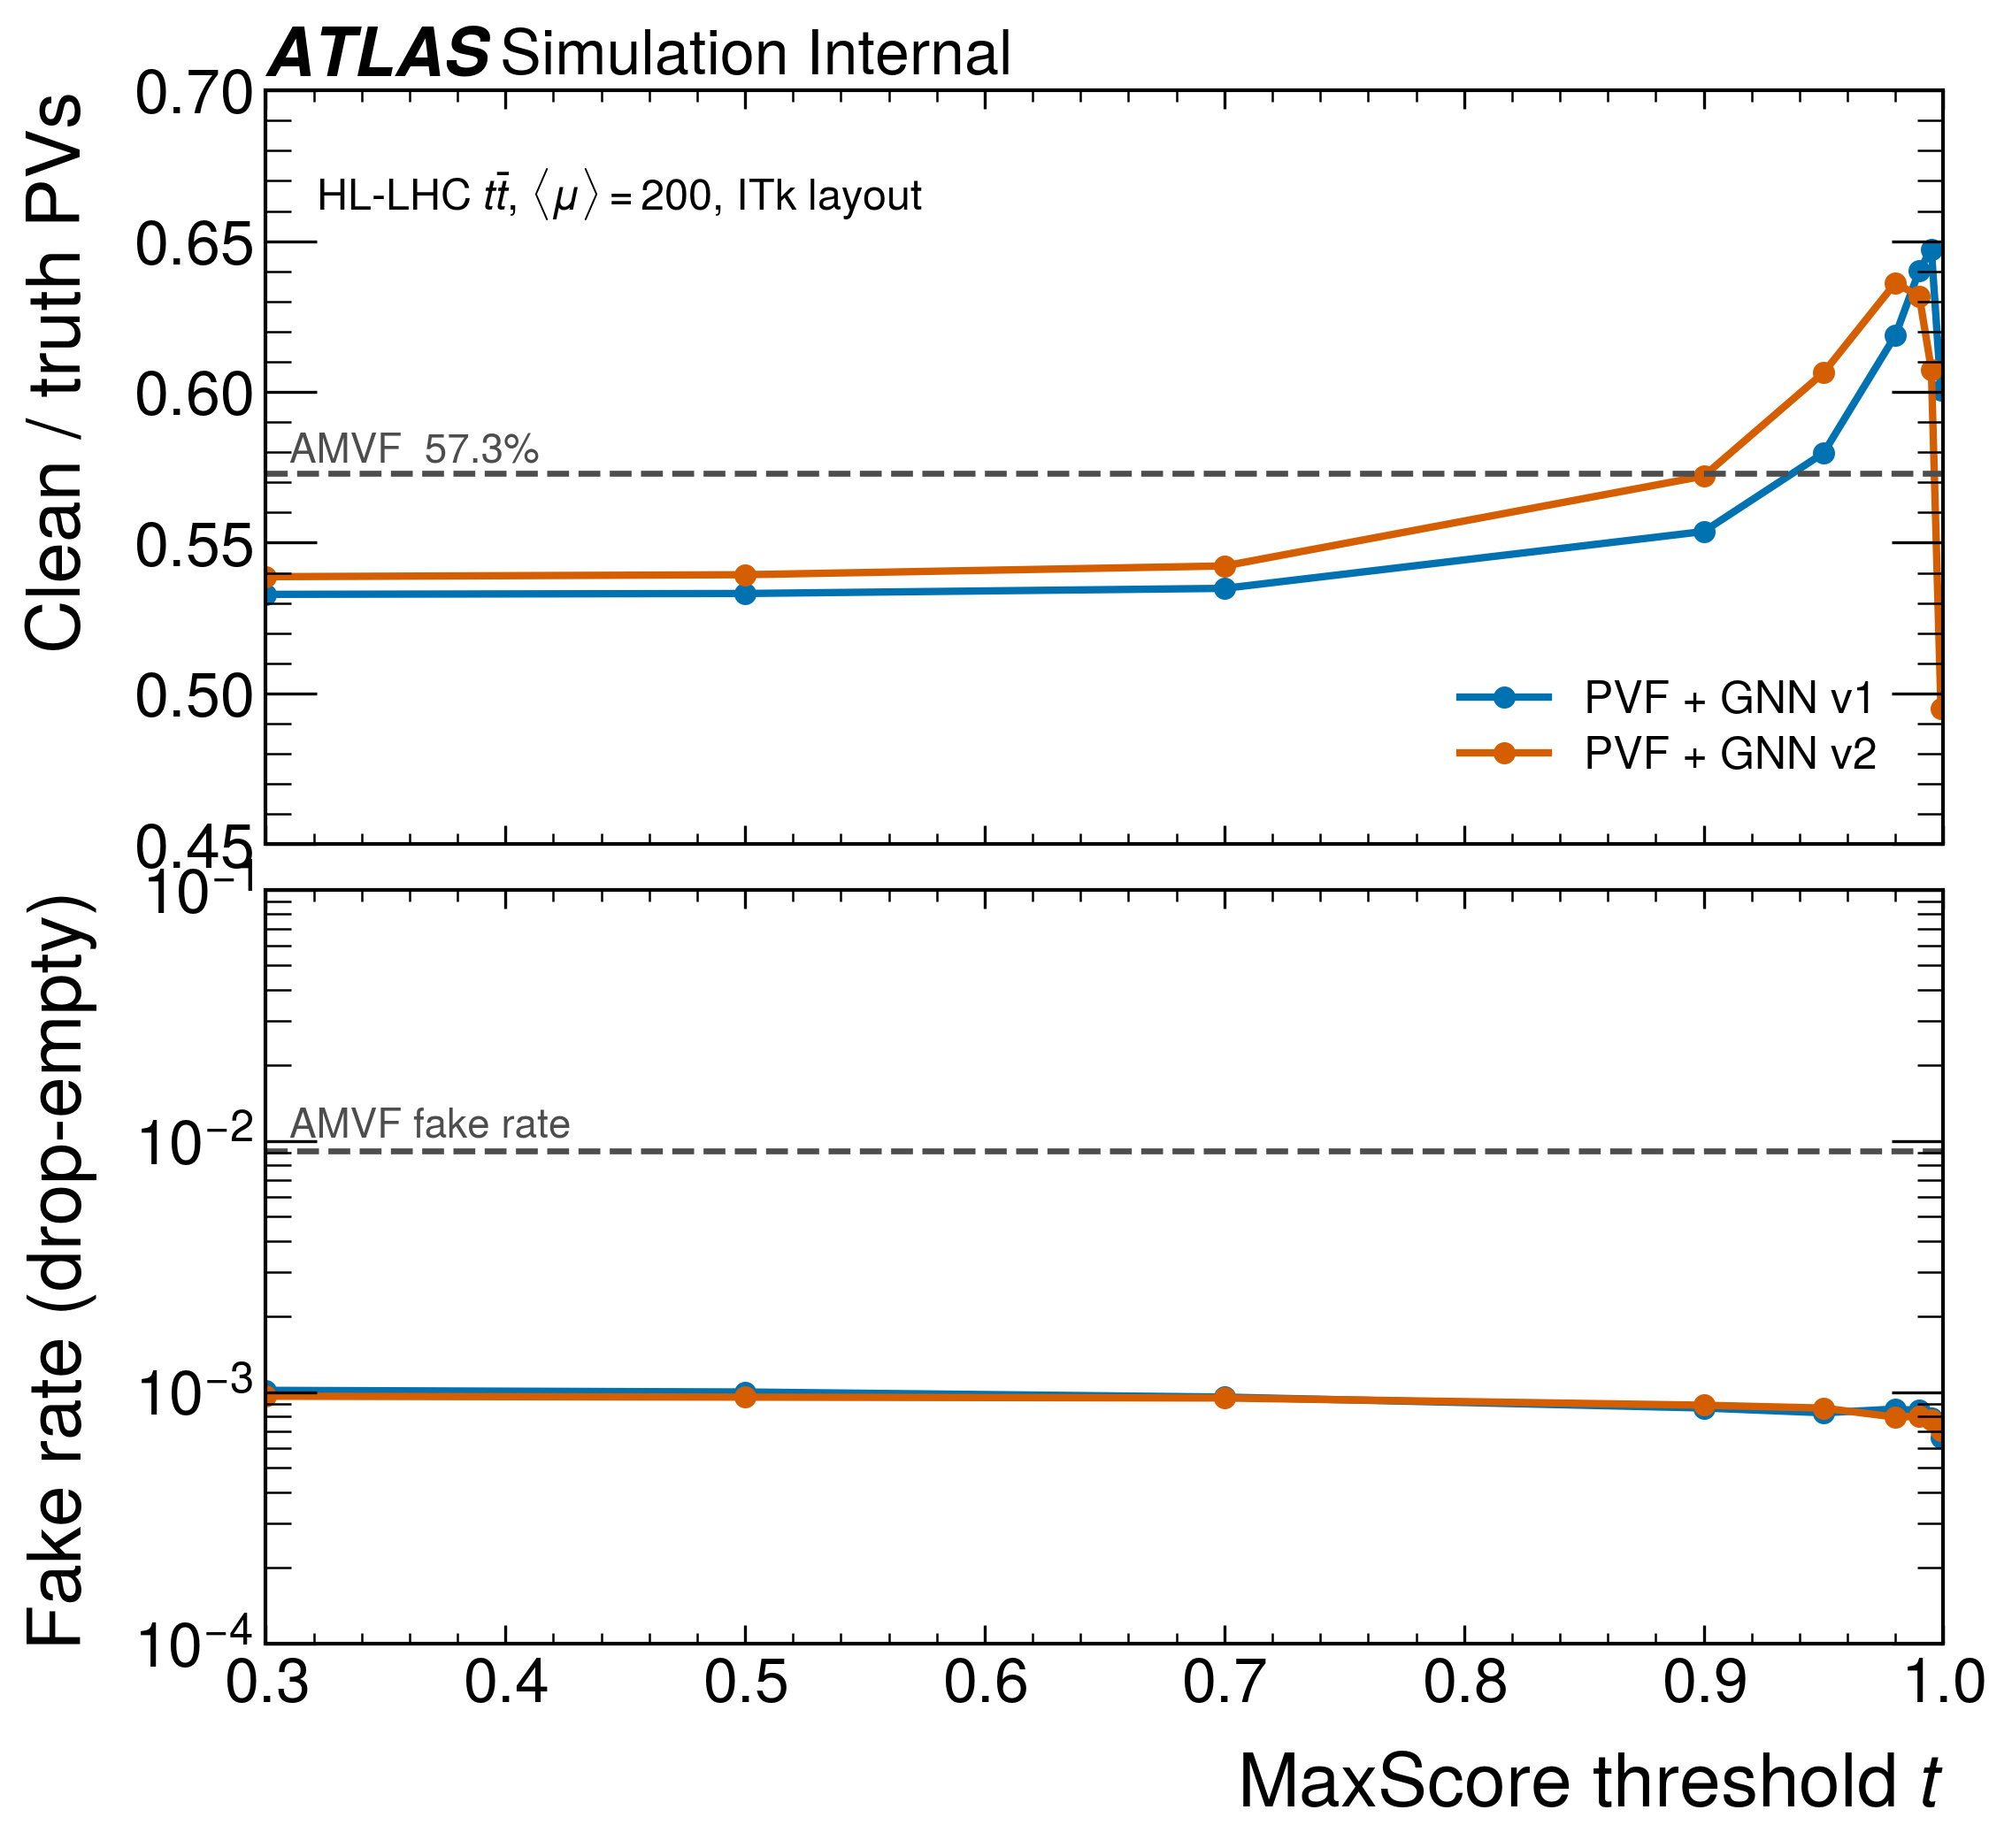
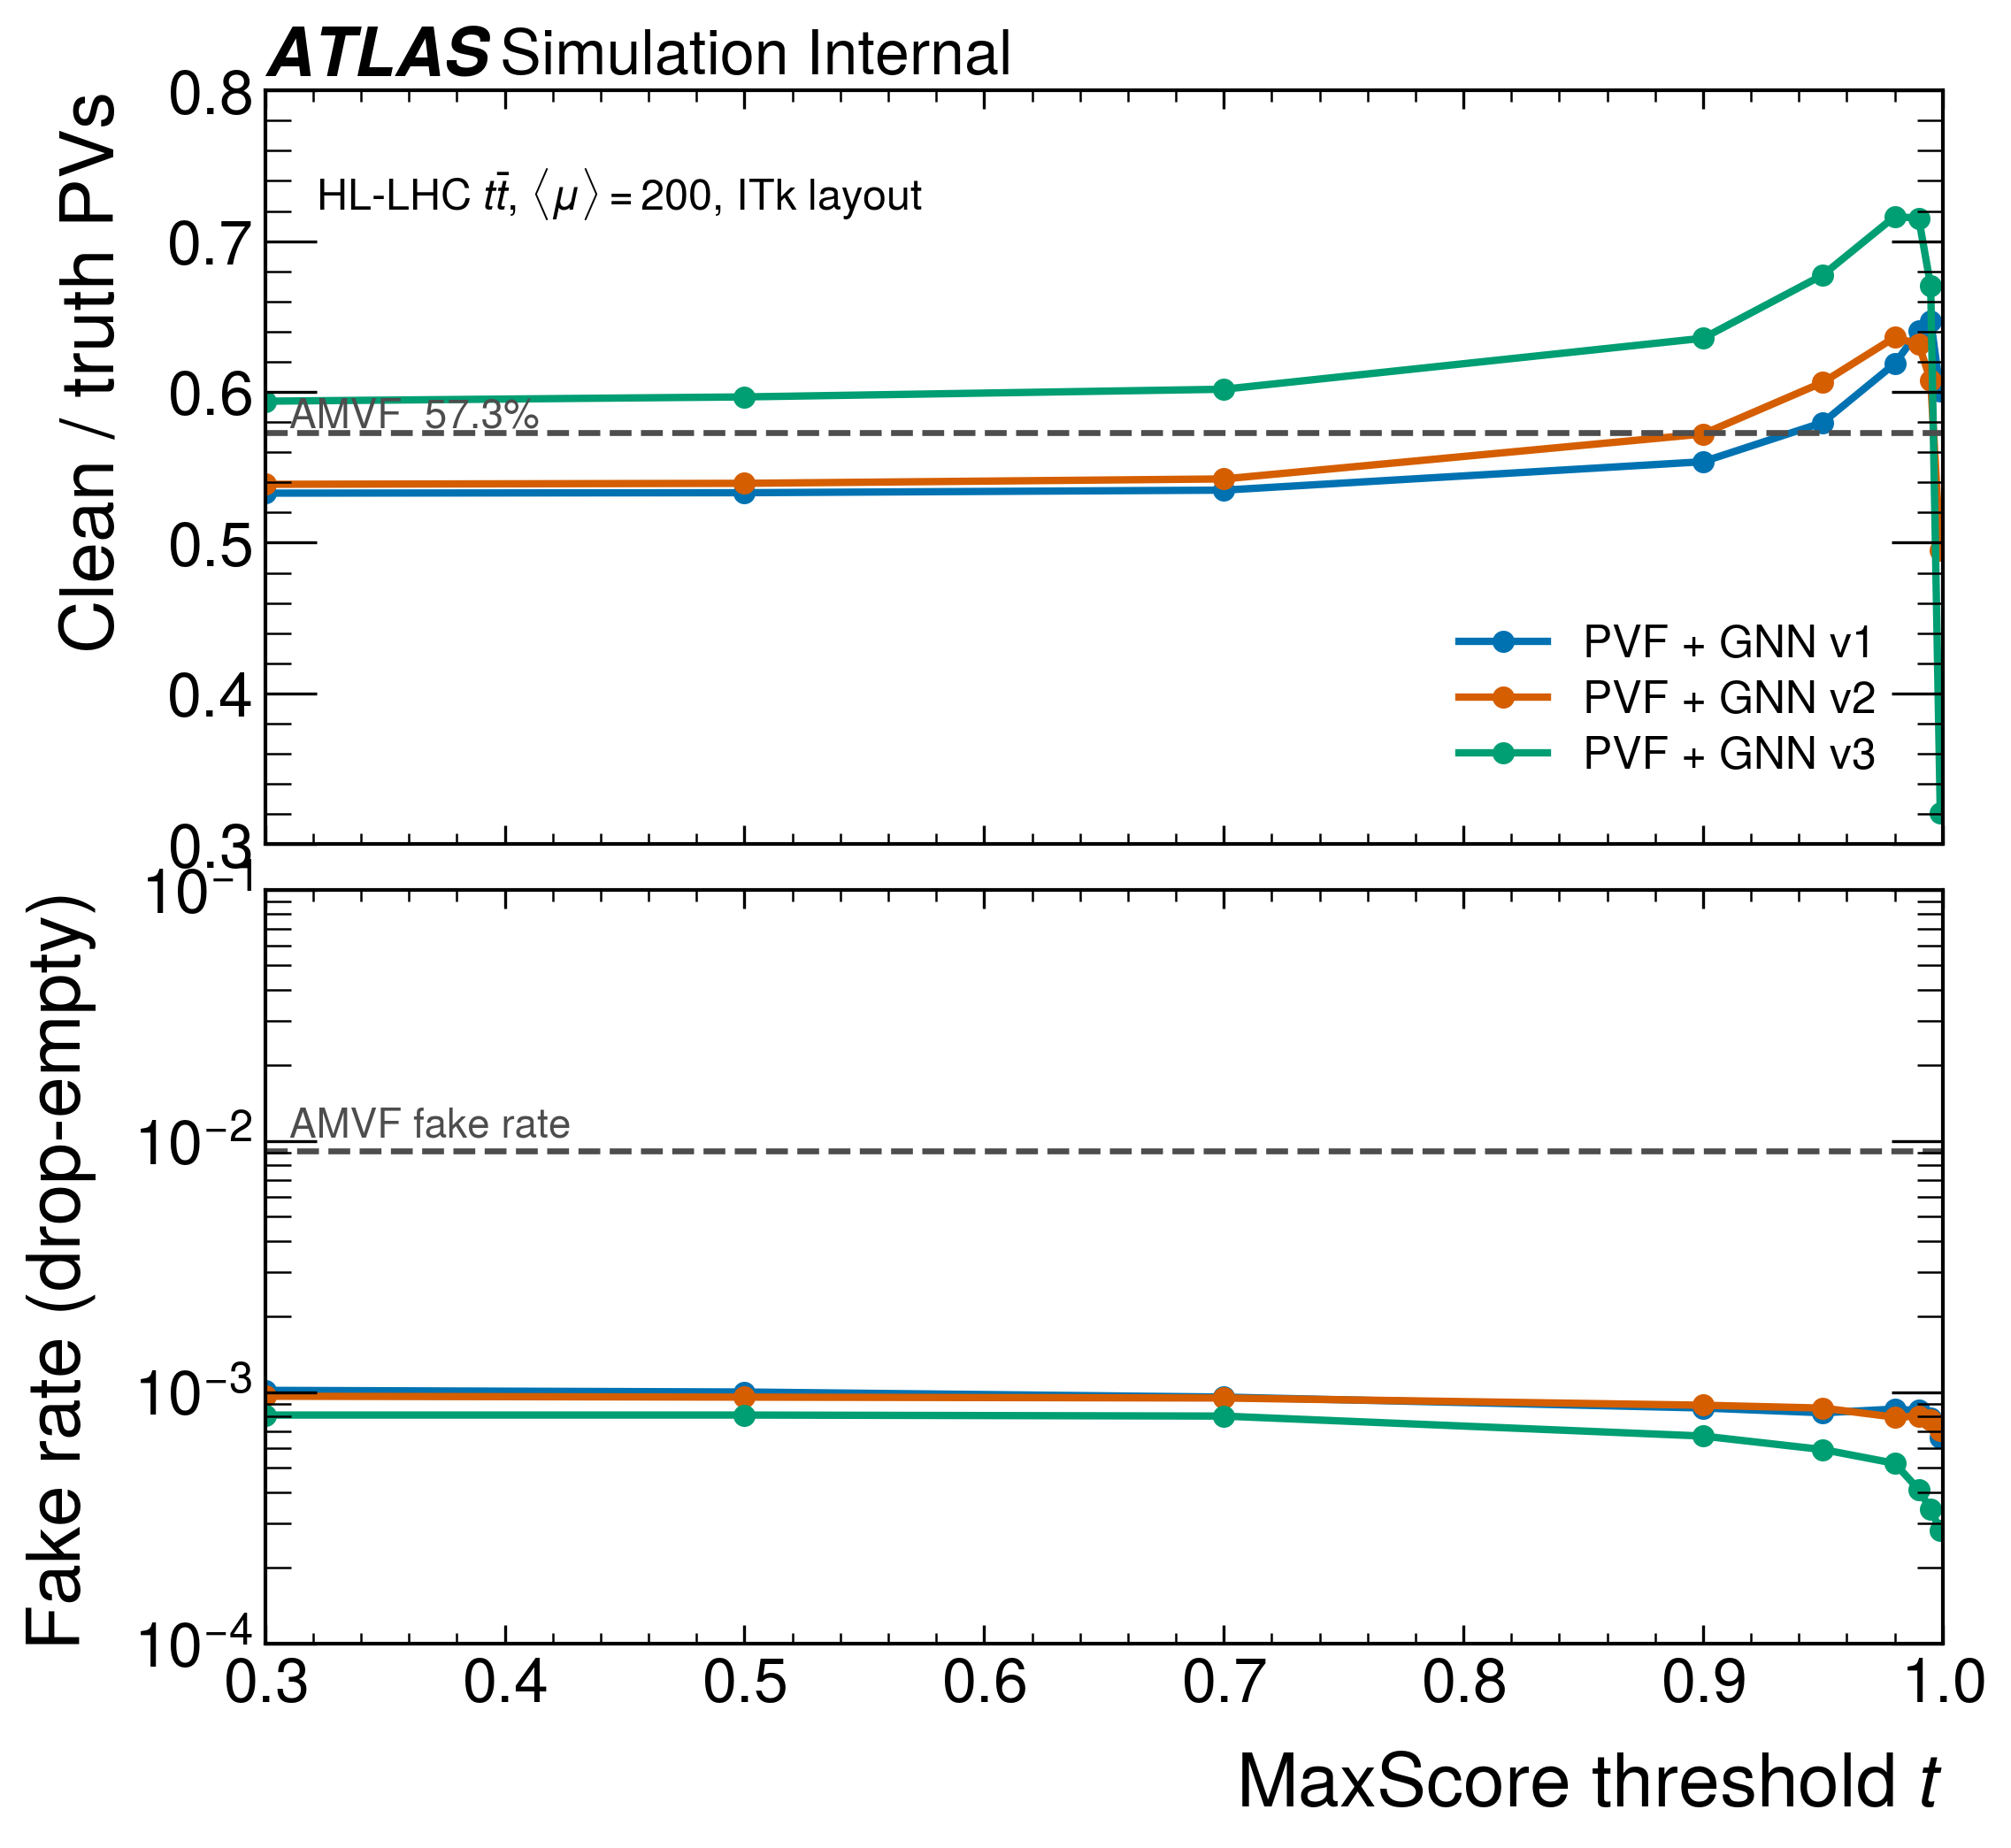
docs: v3 final results — chain 0.716 @ 0.05% fakes, transfer gap closed
v3 (fixed heights + chain-like augmentation + 180k events) evaluated:
+14.3 pts over AMVF at 18x lower fakes, 96% of the oracle bound, HS-ID
98.1% > AMVF. Production checkpoint v3-e156; working points frozen
(t=0.98 vertices, t=0.5 HS-ID). Note GNN section + conclusions updated
with final tables/figures incl. the v3 learning curve; docs + JOURNAL.

diff --git a/final_paper/current_paper/technical_note/sections/07_gnn.tex b/final_paper/current_paper/technical_note/sections/07_gnn.tex
@@ -253,34 +253,37 @@ Re-assigning every track to the peak nearest its \emph{true} vertex --- a
 perfect-information oracle --- yields $74.8\%$: the $6$-point drop from the
 finder cap is close vertex pairs sharing a single nearest peak, unrecoverable
 by any associator on these peaks ($11.9\%$ of oracle vertices are Merged).
-The GNN reaches $64.7\%$ of truth at its working point $t=0.995$ with a fake
-rate of $0.08\%$ --- $86\%$ of the oracle --- while AMVF, whose own finder and
-fitter face the same pile-up density, delivers $57.3\%$ at an $0.91\%$ fake
-rate. The \pvf{}+GNN chain therefore outperforms AMVF by $7.4$ points of
-clean-vertex yield at an eleven-fold lower fake rate. Hard-scatter
-identification through the chain ties AMVF at $97.5\%$ (both at $t=0.5$;
-HS-ID and vertex classification use different thresholds on the same forward
-pass, $92.1\%$ if the clean-vertex threshold is reused). %% V3: add final v3 row + sentence after evaluation
+The model trained on truth vertices alone (v1) reaches $64.7\%$ of truth at
+$t=0.995$ with a fake rate of $0.08\%$ --- $86\%$ of the oracle --- and the
+final model trained with chain-like augmentation (v3,
+Section~\ref{sec:gnn:transfer}) reaches $\mathbf{71.6\%}$ at $t=0.98$ with a
+fake rate of $0.05\%$: $96\%$ of the oracle bound. AMVF, whose own finder
+and fitter face the same pile-up density, delivers $57.3\%$ at an $0.91\%$
+fake rate; the \pvf{}+GNN chain therefore outperforms AMVF by $14.3$ points
+of clean-vertex yield at an eighteen-fold lower fake rate. Hard-scatter
+identification through the chain reaches $98.1\%$ against AMVF's $97.5\%$
+(both at $t=0.5$; HS-ID and vertex classification use different thresholds
+on the same forward pass).
 
 \begin{table}[h]
   \centering
   \caption{PU200 full chain against AMVF (1\,500 events, 148\,133 truth PVs,
   drop-empty convention). ``Finder cap'' counts truth PVs with a peak within
   $0.5$~mm (greedy one-to-one); the oracle assigns every track to the peak
-  nearest its true vertex and bounds any associator on these peaks. GNN rows
-  use the 30k-event PU200 training (v1).}
+  nearest its true vertex and bounds any associator on these peaks. v1 is
+  the 30k-event truth-graph training; v3 adds chain-like augmentation and
+  180k events (Section~\ref{sec:gnn:transfer}).}
   \label{tab:gnn_pu200}
   \begin{tabular}{llcc}
     \toprule
     & Configuration & Clean/truth & Fake rate \\
     \midrule
     reference & AMVF & $57.3\%$ & $0.91\%$ \\
-    chain & \pvf{} v4b + GNN, $t=0.95$ & $58.0\%$ & $0.08\%$ \\
-    chain & \pvf{} v4b + GNN, $t=0.995$ & $\mathbf{64.7\%}$ & $0.08\%$ \\
-    %% V3 row here after evaluation
+    chain & \pvf{} v4b + GNN v1, $t=0.995$ & $64.7\%$ & $0.08\%$ \\
+    chain & \pvf{} v4b + GNN v3, $t=0.98$ & $\mathbf{71.6\%}$ & $0.05\%$ \\
     bound & oracle association on v4b peaks & $74.8\%$ & $0.00\%$ \\
     bound & finder cap ($0.5$~mm) & $81.0\%$ & --- \\
-    bound & truth vertices + GNN & $91.8\%$ & --- \\
+    bound & truth vertices + GNN (v3) & $91.5\%$ & --- \\
     \bottomrule
   \end{tabular}
 \end{table}
@@ -302,12 +305,12 @@ pass, $92.1\%$ if the clean-vertex threshold is reused). %% V3: add final v3 row
     \caption{Finder miss probability vs \ntrk.}
   \end{subfigure}
   \caption{PU200 full chain. (a) The \pvf{}+GNN chain exceeds AMVF by
-  $7.4$ points of clean-vertex yield; the dashed bounds separate what the
-  associator can still recover (up to the oracle) from what belongs to the
-  finder (oracle to cap) and to pile-up density itself. (b) The yield rises
-  monotonically to $t\approx0.995$ while the drop-empty fake rate stays an
-  order of magnitude below AMVF's at every threshold. (c) The finder misses
-  are concentrated at low track multiplicity.}
+  $14.3$ points of clean-vertex yield (v3); the dashed bounds separate what
+  the associator can still recover (up to the oracle) from what belongs to
+  the finder (oracle to cap) and to pile-up density itself. (b) The yield
+  rises monotonically towards the working point while the drop-empty fake
+  rate stays an order of magnitude below AMVF's at every threshold. (c) The
+  finder misses are concentrated at low track multiplicity.}
   \label{fig:gnn_pu200}
 \end{figure}
 
@@ -337,17 +340,41 @@ a characteristic low-height spectrum, and $19\%$ of truth vertices have no
 peak at all --- their tracks must be abstained on, a situation truth graphs
 never show.
 
-The final training closes the gap at the source: the height recipe is fixed,
-and truth graphs are made \emph{chain-like} at build time with probability
-$0.7$ per event --- vertices are dropped with the measured miss probability
-versus \ntrk{}, surviving positions are jittered by the measured
+The dead-height mechanism is confirmed directly: re-evaluating the earlier
+models on truth graphs whose heights are switched on degrades both (v1:
+$79.6\to74.7\%$, v2: $81.6\to72.7\%$ at $t=0.5$), and the better-converged
+v2 degrades more.
+
+The final training (v3) closes the gap at the source: the height recipe is
+fixed, and truth graphs are made \emph{chain-like} at build time with
+probability $0.7$ per event --- vertices are dropped with the measured miss
+probability versus \ntrk{}, surviving positions are jittered by the measured
 peak--truth residuals, preset widths and recipe heights are replaced by
 samples of the measured peak-width and height-ratio distributions, and junk
 vertex nodes are injected at the measured rate with the measured height
 spectrum and all-false edges. Every distribution is an empirical quantile grid
 measured on the v4b chain itself, so the augmentation has no free parameters.
-Trained on 180k augmented all-hadronic events, this is the v3 model of
-Table~\ref{tab:gnn_pu200}. %% V3: replace placeholder sentence with results
+Trained on 180k augmented all-hadronic events (nine 20k shards cycled through
+memory, cosine annealing, 3.2~h on one A100), v3 converges smoothly
+(Figure~\ref{fig:gnn_v3curve}) and improves \emph{every} metric at once: on
+truth graphs it reaches $82.3\%$ at $t=0.5$ ($91.5\%$ at $t=0.95$), matching
+the best truth-graph model while being trained mostly on distorted inputs;
+on the chain it lifts the clean-vertex yield from $64.7\%$ to $\mathbf{71.6\%}$
+at a $0.05\%$ fake rate --- closing three quarters of the distance to the
+oracle bound --- and its hard-scatter identification ($98.1\%$) overtakes
+AMVF. The truth-to-peak transfer gap is, for practical purposes, closed:
+the remaining $3$ points to the oracle are the associator's entire residual
+budget on these peaks.
+
+\begin{figure}[t]
+  \centering
+  \includegraphics[width=0.62\linewidth]{pu200_v3_learning_curve.png}
+  \caption{v3 training progression: clean-vertex yield on the (fixed-height)
+  truth-graph test set at $t=0.5$ versus epoch, with the earlier models
+  evaluated on the same graphs as horizontal references. One epoch is one
+  20k-graph shard; 162 epochs are 18 passes over the 180k-event dataset.}
+  \label{fig:gnn_v3curve}
+\end{figure}
 
 \subsection{Computational cost}
 \label{sec:gnn:latency}
@@ -389,22 +416,24 @@ the graph size grows with occupancy.
 \label{sec:gnn:outlook}
 
 The decomposition of Table~\ref{tab:gnn_pu200} prescribes the next steps in
-order of leverage. The $19\%$ of truth vertices the finder misses (low
-multiplicity) and the $6\%$ lost to peaks shared by close pairs belong to the
-finder, reinforcing the conclusions of Section~\ref{sec:hllhc:failure}; an
-associator-aware finder objective (emitting separate peaks when the
-downstream track assignment could distinguish them) is the natural joint
-target. On the associator side the remaining headroom to the oracle is
-$\sim$10 points. The all-hadronic PU200 sample offers $2.5\times10^{6}$
-training events of which $180$k are used here. HGTD timing remains a
-forward-track feature: $4.0\%$ of PU200 tracks carry a valid time overall,
-but $44.6\%$ of tracks with $|\eta|>2.3$ do ($8.9\%$ of all tracks), so a
-time-augmented edge significance is expected to pay off specifically where
-$z$-ambiguities are worst --- a targeted forward study rather than a global
-gain (Section~\ref{sec:negative:timing}). Finally, the track-based
+order of leverage --- and after v3 they lie almost entirely on the finder
+side. The associator now operates within $3$ points of its oracle bound on
+the given peaks; the $19\%$ of truth vertices the finder misses (low
+multiplicity) and the $6\%$ lost to peaks shared by close pairs belong to
+the finder, reinforcing the conclusions of
+Section~\ref{sec:hllhc:failure}. An associator-aware finder objective
+(emitting separate peaks when the downstream track assignment could
+distinguish them) is the natural joint target. The all-hadronic PU200
+sample offers $2.5\times10^{6}$ training events of which $180$k are used
+here. HGTD timing remains a forward-track feature: $4.0\%$ of PU200 tracks
+carry a valid time overall, but $44.6\%$ of tracks with $|\eta|>2.3$ do
+($8.9\%$ of all tracks), so a time-augmented edge significance is expected
+to pay off specifically where $z$-ambiguities are worst --- a targeted
+forward study rather than a global gain
+(Section~\ref{sec:negative:timing}). Finally, the track-based
 classification used throughout this section is the deployment-faithful
 metric for the combined system and is the recommended headline for any
 future \pvf{}-vs-AMVF comparison: per-task working points ($t=0.5$ for
-hard-scatter identification, $t=0.995$ for vertex classification at PU200,
+hard-scatter identification, $t=0.98$ for vertex classification at PU200,
 $t^{*}=0.98$ at \muavg{}$\approx$60) come for free from a single forward
 pass.

diff --git a/final_paper/current_paper/technical_note/sections/08_conclusions.tex b/final_paper/current_paper/technical_note/sections/08_conclusions.tex
@@ -1,0 +1,53 @@
+\section{Conclusions and outlook}
+\label{sec:conclusions}
+
+\pvf{} reconstructs primary vertices by mapping reconstructed tracks directly to a
+one-dimensional histogram of vertex density and finding its peaks, at an inference
+cost that does not grow with pile-up. The two-network pipeline has been merged into
+a single end-to-end model, and the intermediate KDE has been removed from training
+by warming up the MLP on the histogram target before enabling the U-Net. At low
+pile-up the model matches AMVF and exceeds it in vertex--vertex resolution
+($0.42$~mm against $0.76$~mm on Run~2 simulation), and is validated on Run~2 and
+Run~3 collision data.
+
+The main result of this note is the extension to HL-LHC PU200. After scaling the
+model and stabilizing the optimization schedule, and training on the full
+$2.74\times10^{6}$-event sample with HL-LHC-specific target widths derived from an
+ITk resolution fit, the algorithm reconstructs clean vertices at a yield slightly
+above AMVF ($70.5$ against $67.9$ per event) at a lower fake rate ($14.0$ against
+$15.2$ per event, falling to $11.3$ with the post-hoc histogram gate), and a tighter
+vertex--vertex resolution of $0.29$~mm. It does so at an
+inference cost that is flat with pile-up (Section~\ref{sec:timing}): where AMVF pays a
+combinatorial cost that grows with the vertex multiplicity the HL-LHC is designed to
+increase, \pvf{} pays the same fixed cost per event. This is the operational reason to
+pursue the method at Run~4 even where the reconstruction quality is only comparable.
+
+The chain is completed by the graph-network track-to-vertex association
+(Section~\ref{sec:gnn}), which turns the found peaks into per-vertex track
+lists at negligible cost ($3.8$~ms per event; the optimized full chain runs
+in $\sim$11~ms). Judged by the track-based purity criteria applied
+identically to both algorithms, the combined \pvf{}+GNN chain delivers a
+clean-vertex yield of $71.6\%$ of truth vertices at PU200 against $57.3\%$
+for AMVF, at an eighteen-fold lower fake rate, and identifies the
+hard-scatter vertex at least as often ($98.1\%$ against $97.5\%$). The
+associator operates within three points of its oracle bound on the given
+peaks, so the remaining inefficiency belongs to the finder.
+
+Two findings shape the next steps. Capacity and the optimization schedule do not
+seem to be the bottleneck: a fivefold-larger model and a sweep over learning rate,
+optimizer and loss all reach the same plateau; the limit lies in the
+mean-squared-error loss against fixed-width Gaussian targets. A non-negligible
+part of the residual inefficiency is physical: about $15\%$ of adjacent truth
+vertices at PU200 are closer than the resolution and cannot be separated at the
+current output granularity. The fake-versus-real signal is already present in the
+predicted histogram, so a learned post-hoc gate recovers most of the available
+separation, and an in-model objectness head would mainly serve to clean up the
+histogram during training.
+
+The priorities going forward are loss functions that penalise fake,
+merged and missed vertices directly rather than through a uniform mean-squared
+error, with an in-model objectness head as the concrete first step; a finer output
+representation or a deconvolution step to recover the close pairs that lie above the
+physical ceiling; and, with the association step now essentially saturated on the
+peaks it is given, joint finder--associator objectives that emit separate peaks
+wherever the downstream track assignment could distinguish them.

diff --git a/src/gnn/diagnostics/plot_ttva_pu200_pub.py b/src/gnn/diagnostics/plot_ttva_pu200_pub.py
@@ -132,6 +132,37 @@ def plot_miss_ntrk(gap: dict, out: Path):
     plt.close(fig)
 
 
+def plot_learning_curve(curve_path: str, out: Path):
+    """v3 clean/truth vs epoch (truth graphs, t=0.5) with v1/v2 references."""
+    with open(curve_path) as f:
+        rows = json.load(f)
+    epochs, values, refs = [], [], {}
+    for row in rows:
+        label = row.get("label", "")
+        if label.startswith("v1"):
+            refs["v1-e175"] = row["clean_per_truth"]
+        elif label.startswith("v2"):
+            refs["v2-e175"] = row["clean_per_truth"]
+        else:
+            epochs.append(int(row["weights"].split("epoch_")[-1].split(".")[0]))
+            values.append(row["clean_per_truth"])
+    order = np.argsort(epochs)
+
+    fig, ax = plt.subplots(figsize=(8, 5.4))
+    ax.plot(np.array(epochs)[order], np.array(values)[order], "o-",
+            color=OKABE[0], ms=5, label="v3 (aug. 180k)")  # fmt: skip
+    for (label, v), ls in zip(refs.items(), ("--", ":")):
+        ax.axhline(v, color="0.35", ls=ls, lw=1.6)
+        ax.text(2, v + 0.004, f"{label}  {v:.3f}", fontsize=11, color="0.3")
+    ax.set_xlabel("Epoch")
+    ax.set_ylabel("Clean / truth PVs (truth graphs, $t=0.5$)")
+    ax.set_ylim(0.42, 0.9)
+    ax.legend(loc="lower right", fontsize=12)
+    atlas_label(ax, desc=LUMI_DESC, desc_xy=(0.03, 0.90))
+    save_figure(fig, out, "pu200_v3_learning_curve")
+    plt.close(fig)
+
+
 def main() -> None:
     """CLI entry point."""
     args = _parse_args()
@@ -150,6 +181,8 @@ def main() -> None:
     plot_ladder(gap, scans, args.truth_bound, out)
     plot_scan(scans, gap, out)
     plot_miss_ntrk(gap, out)
+    if args.learning_curve:
+        plot_learning_curve(args.learning_curve, out)
     for label, scan in scans.items():
         best = _best_point(scan)
         print(f"{label}: best t={best['t']} clean/truth "
@@ -164,6 +197,8 @@ def _parse_args() -> argparse.Namespace:
     p.add_argument("--gap", required=True, type=str)
     p.add_argument("--scan", action="append", default=[], metavar="LABEL=PATH")
     p.add_argument("--truth-bound", default=0.9175, type=float)
+    p.add_argument("--learning-curve", default=None, type=str,
+                   help="learning_curve.json for the v3 panel")  # fmt: skip
     p.add_argument("-o", "--output-dir", required=True, type=str)
     return p.parse_args()
 

diff --git a/docs/evaluation/vertex_association.md b/docs/evaluation/vertex_association.md
@@ -224,7 +224,7 @@ Current headline (`outputs/07_14_2026_ttva_gap/chain_scan_{v1,v2}/`,
 | Finder cap, 0.5 mm greedy match (bound) | 0.810 | — |
 | GNN v2-e175 on truth vertices (bound) | 0.918 | — |
 
-**+7.4 points over AMVF at 11× lower fake rate.** Decomposition
+**+7.4 points over AMVF at 11× lower fake rate** (pre-v3). Decomposition
 (`gnn.diagnostics.chain_gap_decomposition`,
 `outputs/07_14_2026_ttva_gap/gap_decomposition.json`): the finder misses
 19.0% of truth PVs (median nTrk 3 vs 7 for found); of the found, 6.2 pts
@@ -256,6 +256,34 @@ Optimized chain ≈ 11 ms/event. The GNN forward is now the largest learned
 component but still ~a third of the total; nothing about the model needs
 optimizing. Verification tool: `gnn.evaluation.verify_fast_paths` (also
 checked at μ60: 20×, 2 tied edges differ in 1/2,550 events).
+
+## v3 FINAL RESULT (2026-07-14): augmented training closes the transfer gap
+
+v3 (`ttva_gat_pu200_k20_v3_aug180k`, **production checkpoint = epoch 156**:
+`model_weights/ttva_gnn_hllhc_v3/ttva_gat_pu200_k20_v3_aug180k_epoch_156.pyt`)
+= fixed heights + chain-like augmentation + 180k all-hadronic events.
+All evals in `outputs/07_14_2026_ttva_v3/`:
+
+| Chain (1,500 events, 148,133 truth PVs) | clean/truth | fake (drop-empty) |
+|---|---|---|
+| AMVF | 0.573 | 0.91% |
+| PVF v4b + GNN v1-e175, t=0.995 | 0.647 | 0.08% |
+| **PVF v4b + GNN v3-e156, t=0.98** | **0.716** | **0.05%** |
+| Oracle association on peaks (bound) | 0.748 | 0.00% |
+
+**+14.3 points over AMVF at 18× lower fakes; 96% of the oracle bound.**
+Robust across checkpoints (e150: 0.715). Truth graphs (fixed heights):
+0.823 @ t=0.5 / **0.9155 @ t=0.95** — matches v2's ceiling while
+transferring to peaks. **HS-ID 98.1% @ t=0.5 — beats AMVF's 97.5%**
+(`hs_id_v3/`). Working points frozen: **t=0.98 vertex classification,
+t=0.5 HS-ID** (same forward pass).
+
+Transfer-gap evidence (learning curve `eval_learning_curve/`): on
+fixed-height truth graphs v1 drops 0.796→0.747 and v2 0.816→0.727 at
+t=0.5 (they trained with the dead zero-height input), while v3 reaches
+0.823. Smooth convergence over 162 shard-epochs (18 passes / 3.2 h).
+Verification: v3 t-scans share the machinery verified against the
[phone redacted] rows; ΣtruthPV = 148,133 exact in every run.
 
 ## Run 3 real data (truth-free, 2026-07-13)
 

diff --git a/JOURNAL.md b/JOURNAL.md
@@ -2779,3 +2779,29 @@ stub): task, graph/TikZ schematic, architecture, metrics + conventions,
 mu60 + Run 3, PU200 chain vs AMVF with yield-ladder figure, transfer gap,
 latency, outlook. Compiles clean. PU200 publication plots:
 plot_ttva_pu200_pub (yield ladder / chain scan / miss-vs-nTrk).
+
+## 2026-07-14 (later) — v3 evaluated: transfer gap closed, chain at 96% of oracle
+
+v3 training finished in 3.2 h (162 shard-epochs, ~70 s each, smooth
+cosine descent to val 0.2120 on augmented graphs). Evaluation
+(outputs/07_14_2026_ttva_v3/):
+
+- **Full chain: clean/truth 0.716 @ 0.05% fakes (t=0.98)** — +6.9 pts
+  over v1's drop-empty best, **+14.3 pts over AMVF at 18x lower fakes**,
+  96% of the oracle-association bound (0.748). Robust (e150: 0.715).
+- Truth graphs (fixed heights): 0.823 @ t=0.5, 0.9155 @ t=0.95 — matches
+  v2's ceiling despite training mostly on distorted (chain-like) inputs.
+- **HS-ID 98.1% @ t=0.5 — now beats AMVF (97.5%)** (v1 merely tied).
+- Height-bug evidence quantified: v1/v2 degrade 5/9 pts when evaluated
+  on live-height truth graphs; v3 (trained with real heights) gains.
+- **Production checkpoint: v3-e156**
+  (ttva_gnn_hllhc_v3/ttva_gat_pu200_k20_v3_aug180k_epoch_156.pyt).
+  Working points frozen: t=0.98 (vertex classification), t=0.5 (HS-ID).
+
+Publication plots regenerated with v3 (yield ladder, chain scan,
+v3 learning curve; outputs/07_14_2026_ttva_pu200_publication/) and the
+technical-note GNN section + conclusions updated with the final numbers
+(compiles clean). The remaining chain inefficiency is now almost entirely
+the finder's (misses 19%, unavoidable merges 6%): next lever is an
+associator-aware finder objective / objectness head, plus the 2.5M-event
+sample for further scaling.

diff --git a/docs/models/vertex_association.md b/docs/models/vertex_association.md
@@ -148,11 +148,14 @@ default in `create_training_graph`) and `hllhc` (0.179, 0.727, 0; default in
   Truth-graph ceiling clean/truth 0.9175 (v2, t=0.95). **v1-e175 is still
   the chain production checkpoint** (transfer gap: v2's fake floor on
   peak-node graphs is ~4.5%).
-- **PU200 FULL CHAIN (updated 2026-07-14)**: PVF v4b peaks + GNN beats
-  AMVF — clean/truth **0.647 @ 0.08% fakes** (v1-e175, t=0.995,
-  drop-empty convention) vs AMVF 0.573 @ 0.91%. Bounds: oracle
-  association on peaks 0.748, finder cap 0.810, GNN-on-truth 0.918.
-  HS-ID ties AMVF (97.5%). Optimized chain latency ≈ 11 ms/event
+- **PU200 FULL CHAIN — FINAL (v3, 2026-07-14)**: PVF v4b peaks + GNN v3
+  reaches **clean/truth 0.716 @ 0.05% fakes** (t=0.98, drop-empty) vs
+  AMVF 0.573 @ 0.91% — **+14.3 pts at 18× lower fakes, 96% of the
+  oracle bound** (0.748; finder cap 0.810). HS-ID **98.1% > AMVF
+  97.5%**. Production checkpoint:
+  `model_weights/ttva_gnn_hllhc_v3/ttva_gat_pu200_k20_v3_aug180k_epoch_156.pyt`
+  (train with fixed heights + chain-like augmentation + 180k all-hadronic
+  events). v1/v2 kept for reference. Optimized chain latency ≈ 11 ms/event
   (numba peak finder + vectorized selection). See evaluation doc.
 - **PV-height bug found + fixed (2026-07-14)**: the Gaussian-CDF height
   recipe added Z_MIN twice (inherited from Nov 2025), so every

diff --git a/docs/training/vertex_association.md b/docs/training/vertex_association.md
@@ -105,6 +105,15 @@ worker thread pools spin at high CPU — the process is NOT hung; wait for
 the "Saved N graphs" line (a first-attempt kill at that stage truncated
 all 8 shards, which had to be rebuilt).
 
+**Completed run v3 (2026-07-14, `ttva_gat_pu200_k20_v3_aug180k`):** 162
+epochs in 3.2 h on one A100 (~70 s/shard-epoch incl. load), final
+train/val 0.2115/0.2120 (val on *augmented* graphs — not comparable to
+v1/v2), perfectly smooth. **Best = epoch 156, the new production
+checkpoint**: truth graphs 0.823 clean/truth @ t=0.5 / 0.9155 @ t=0.95;
+full chain **0.716 @ 0.05% fakes (t=0.98)** vs v1 0.647 / AMVF 0.573.
+Improved every metric incl. HS-ID (98.1% > AMVF). The transfer gap is
+effectively closed (96% of the oracle bound on peaks).
+
 ## Reference training run (Nov 2025 baseline)
 
 The checkpoint behind the ACAT/internal-note numbers was trained with